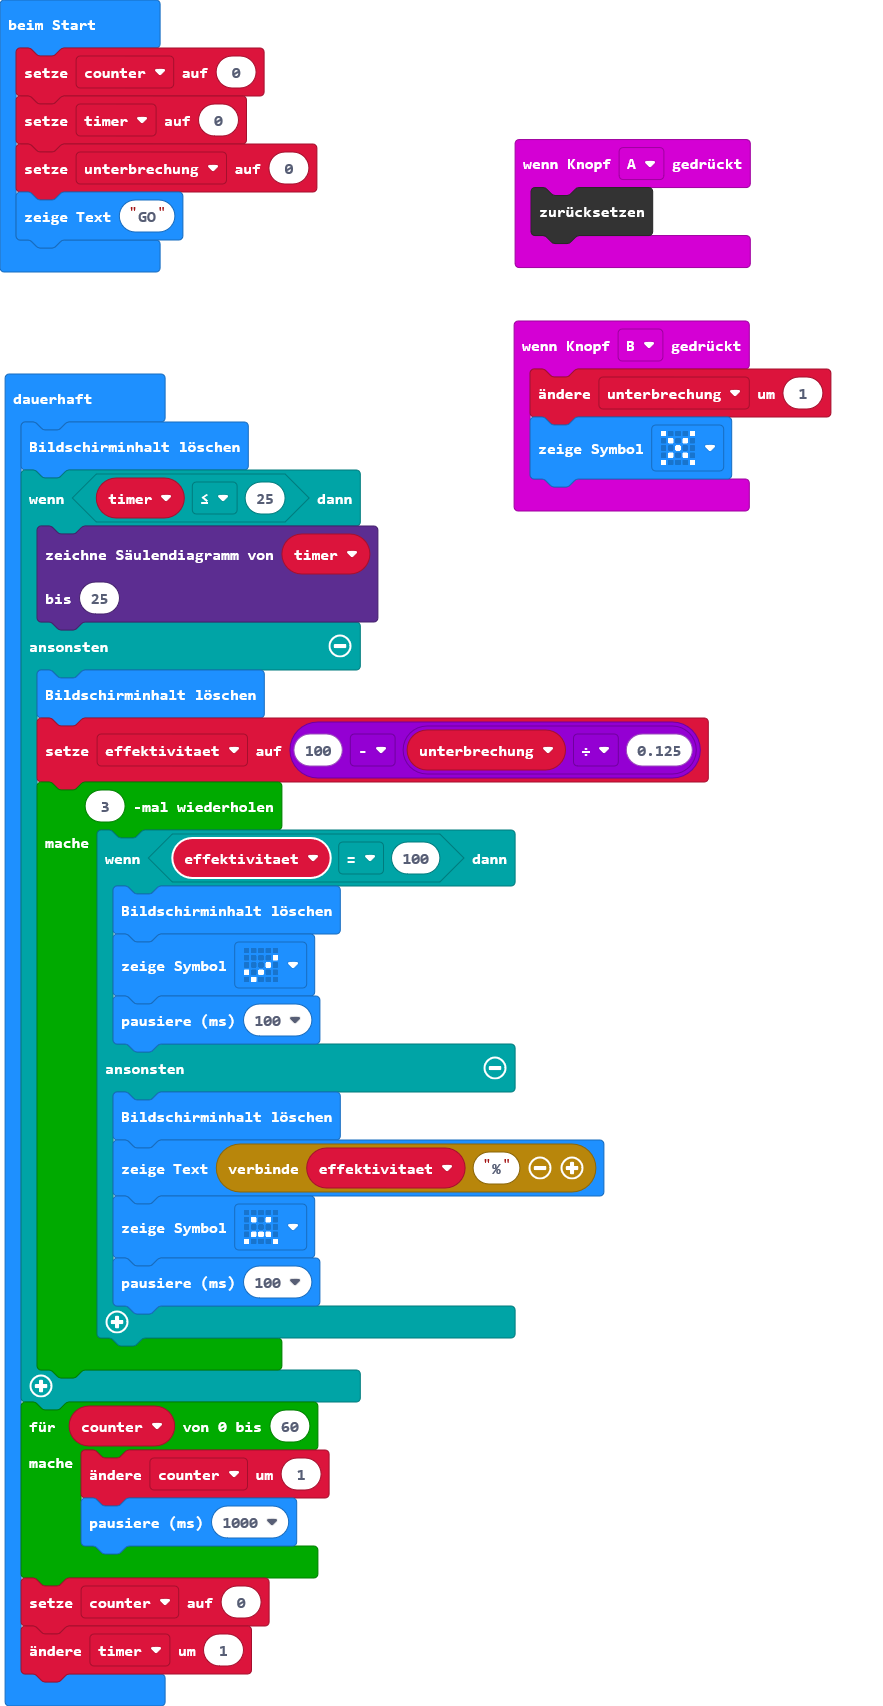
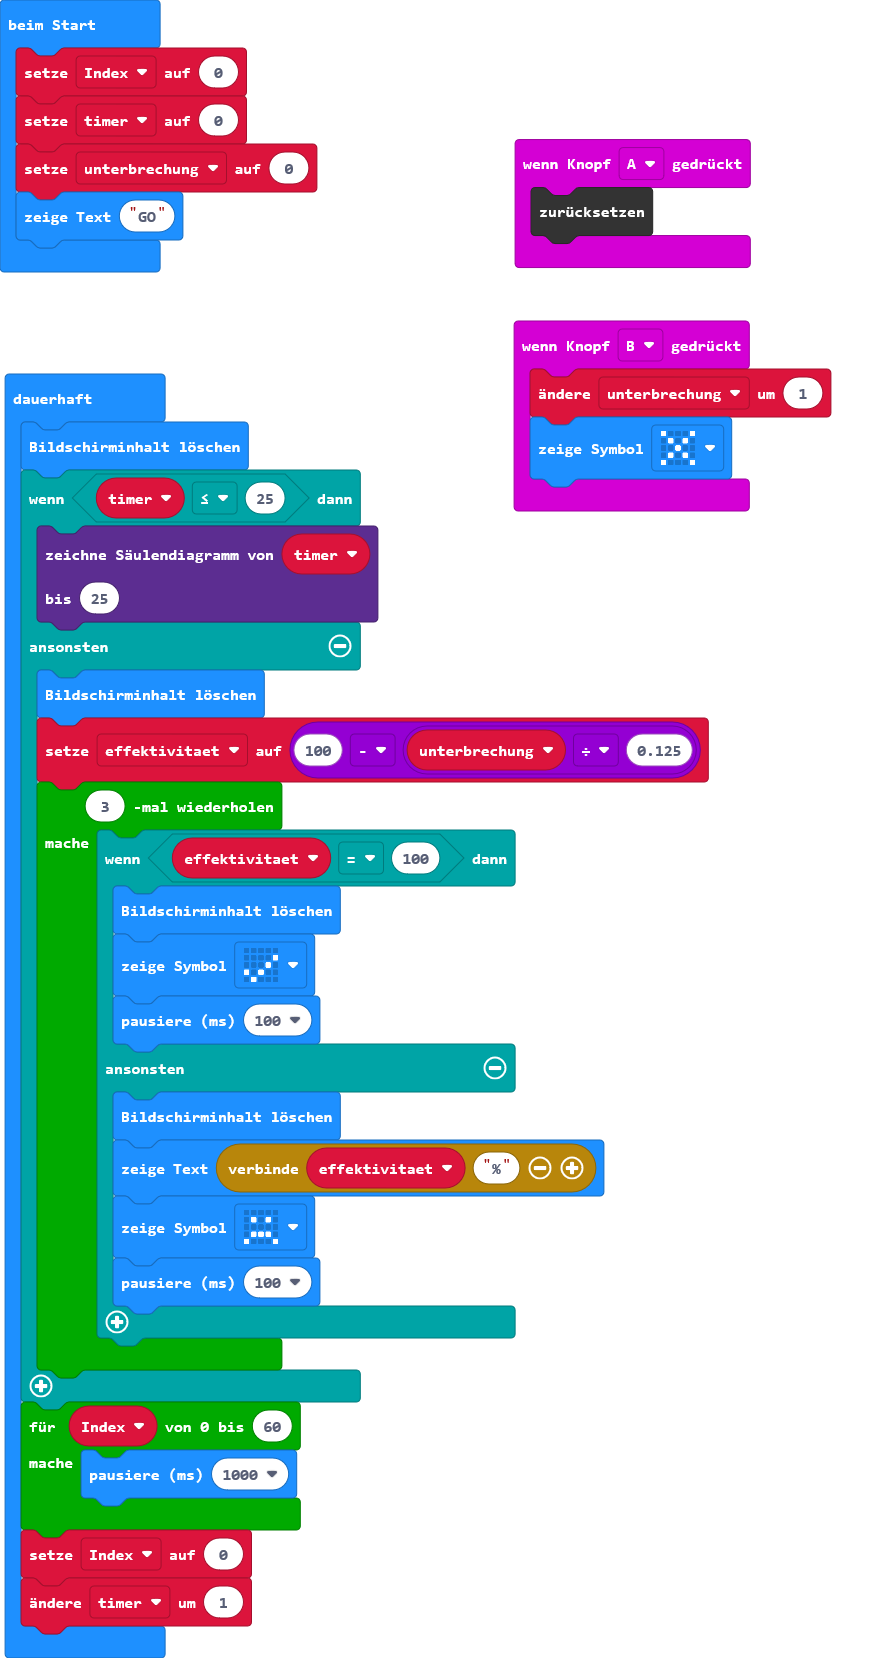
Aktualisiere main.blocks, main.ts

Changed region(s): [[0.0, 0.2153, 0.795, 0.9843], [0.581, 0.0615, 0.9479, 0.3076], [0.0, 0.0, 0.3669, 0.1846]]

diff --git a/main.ts b/main.ts
@@ -6,7 +6,7 @@ input.onButtonPressed(Button.B, function () {
     basic.showIcon(IconNames.No)
 })
 let effektivitaet = 0
-let counter = 0
+let Index = 0
 let timer = 0
 let unterbrechung = 0
 basic.showString("GO")
@@ -33,10 +33,9 @@ basic.forever(function () {
             }
         }
     }
-    for (let counter = 0; counter <= 60; counter++) {
-        counter += 1
+    for (let Index = 0; Index <= 60; Index++) {
         basic.pause(1000)
     }
-    counter = 0
+    Index = 0
     timer += 1
 })
